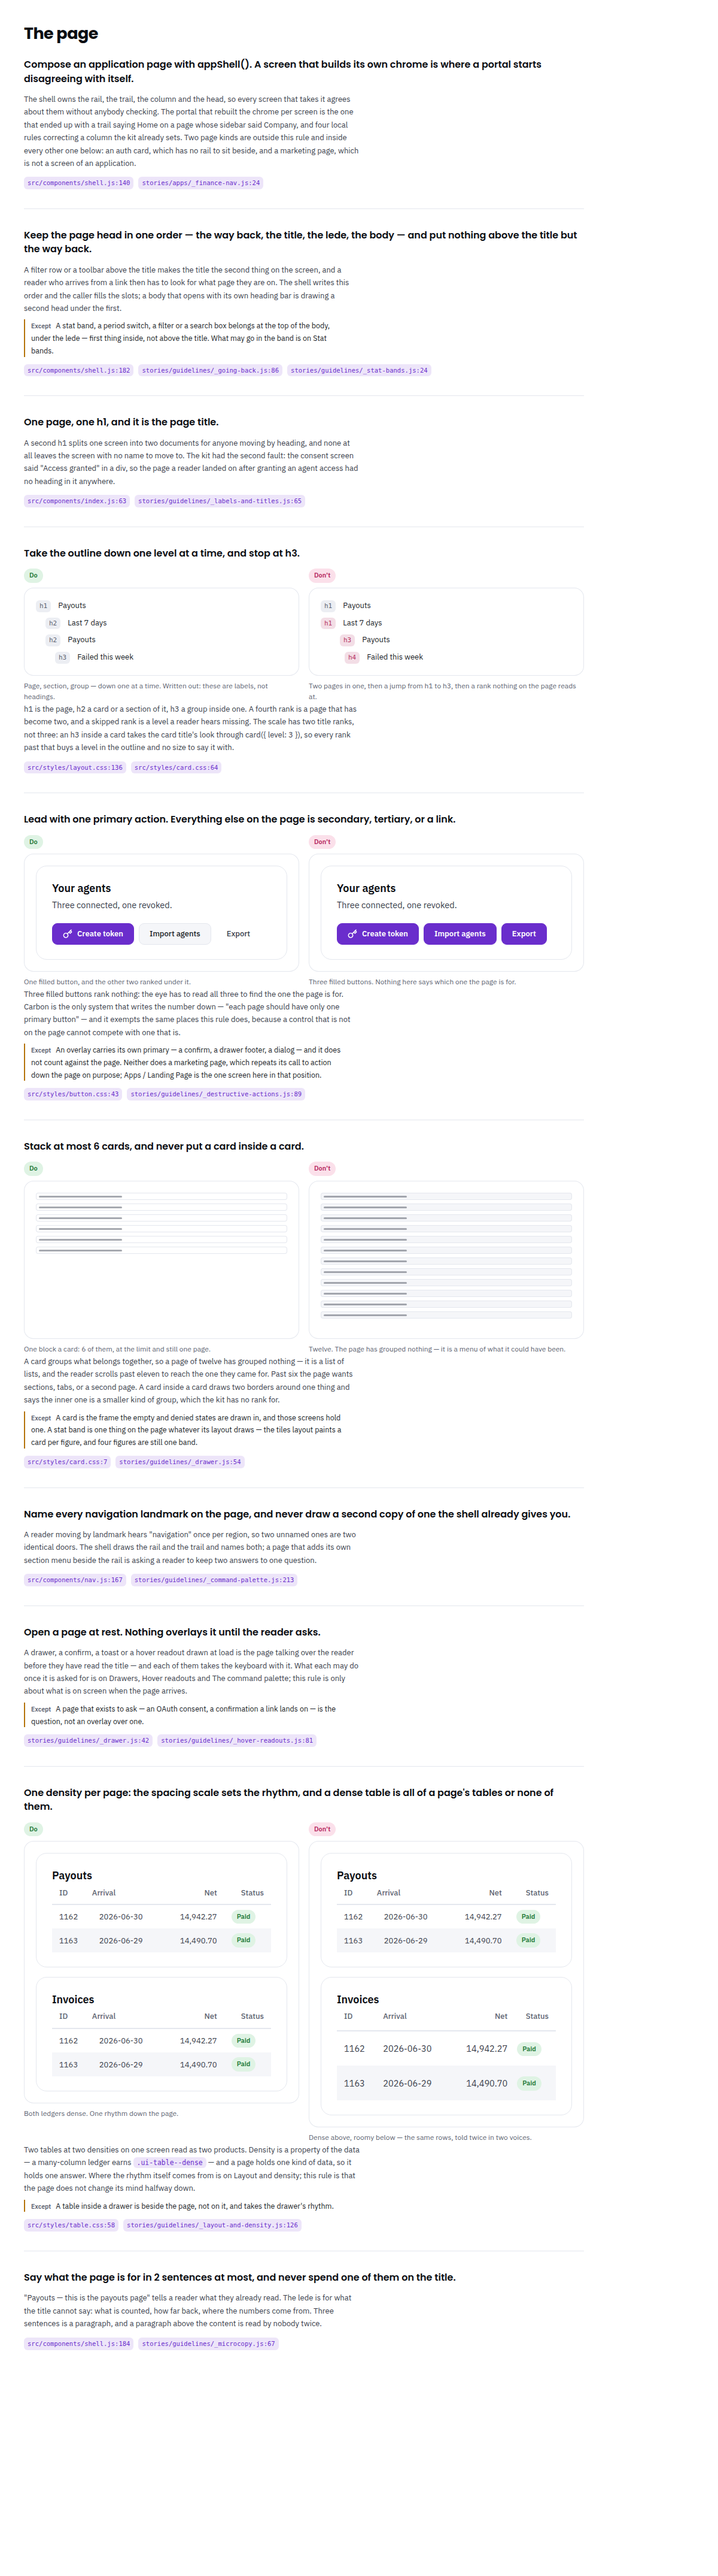
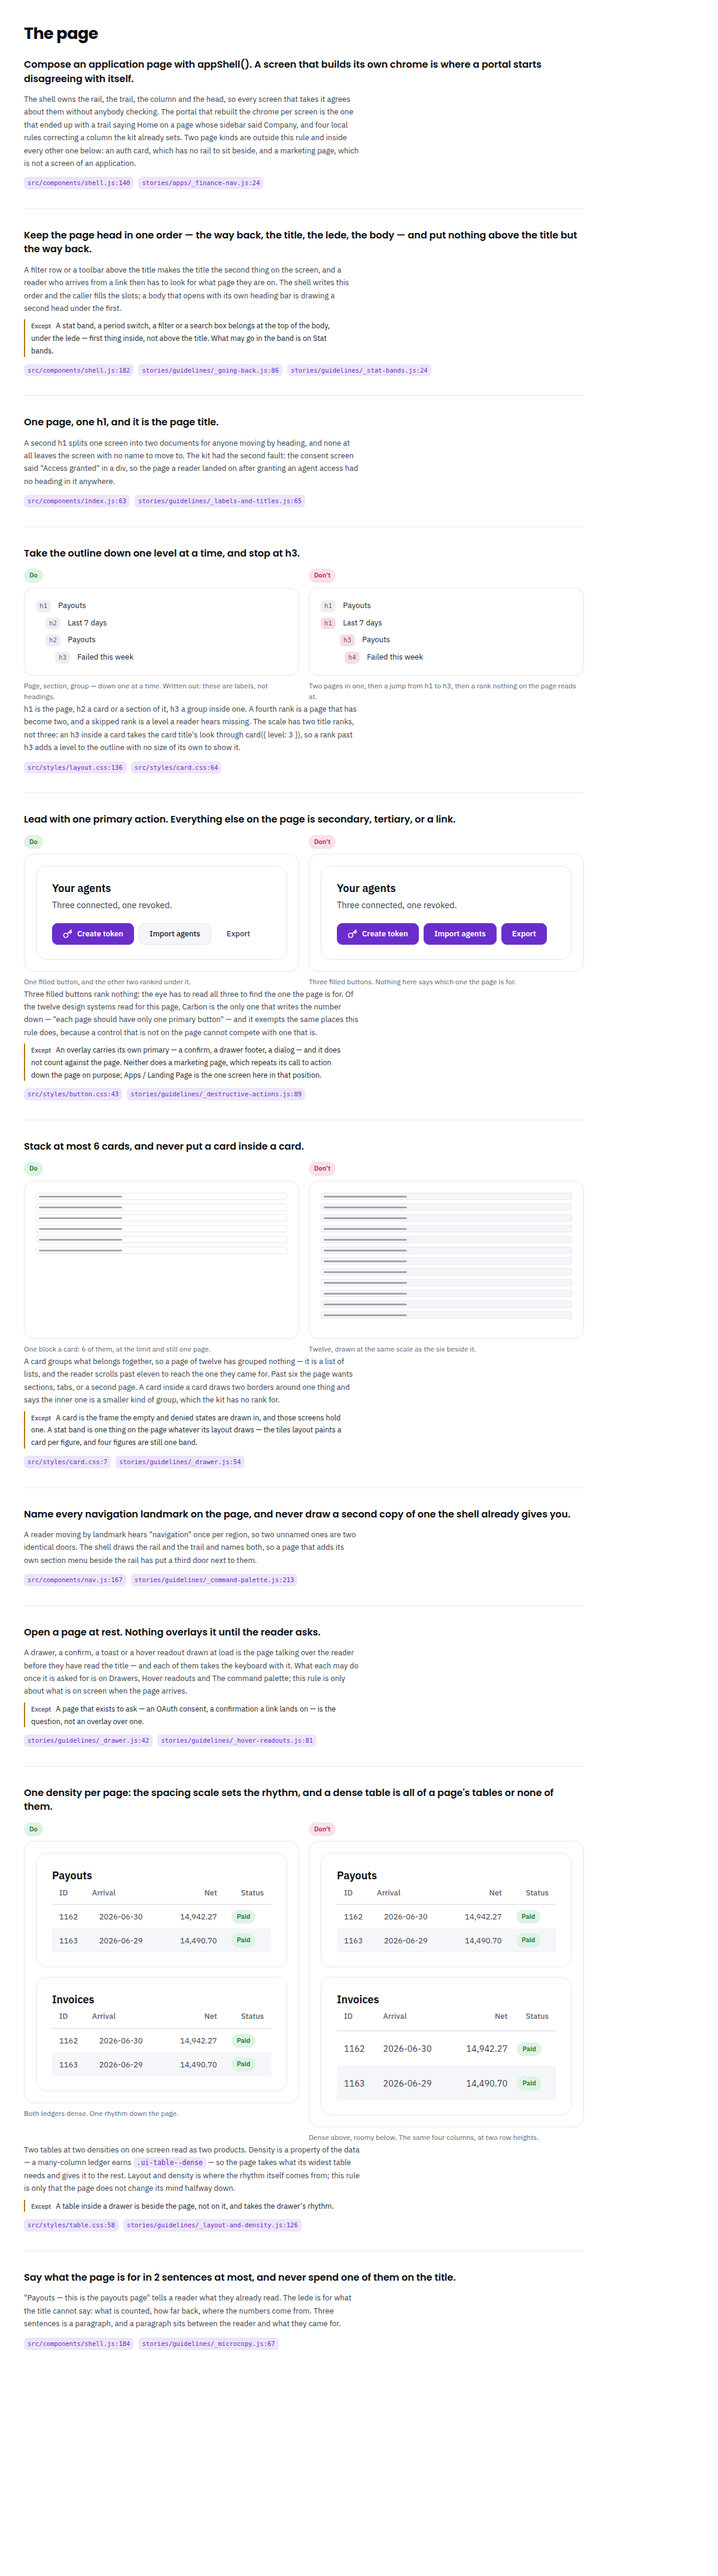
The page: findings from the prose review (#275)
The Carbon claim is scoped to the twelve systems actually read. The density
rule stops asserting that a page holds one kind of data — its own do-specimen
holds two tables. The specification opens on a fact rather than a sentiment,
and stops presenting a choice made in this PR as a derivation. Four captions
and one why traded an aphorism for what the picture shows.

Claude-Session: https://claude.ai/code/session_017CBE3Ut36cRg3sU16zw2A5

Changed region(s): [[0.0308, 0.374, 0.4625, 0.4051], [0.2158, 0.8414, 0.2467, 0.8726], [0.0617, 0.8414, 0.0925, 0.8726]]

diff --git a/stories/guidelines/_the-page.js b/stories/guidelines/_the-page.js
@@ -167,8 +167,8 @@ export const RULES = [
     why: 'h1 is the page, h2 a card or a section of it, h3 a group inside one. A fourth rank is a '
       + 'page that has become two, and a skipped rank is a level a reader hears missing. The scale '
       + 'has two title ranks, not three: an h3 inside a card takes the card title\'s look through '
-      + 'card({ level: 3 }), so every rank past that buys a level in the outline and no size to say '
-      + 'it with.',
+      + 'card({ level: 3 }), so a rank past h3 adds a level to the outline with no size of its own '
+      + 'to show it.',
     doCaption: 'Page, section, group — down one at a time. Written out: these are labels, not headings.',
     dontCaption: 'Two pages in one, then a jump from h1 to h3, then a rank nothing on the page reads at.',
     doHtml: outlineDo,
@@ -182,9 +182,10 @@ export const RULES = [
     id: 'one-primary',
     imperative: 'Lead with one primary action. Everything else on the page is secondary, tertiary, or a link.',
     why: 'Three filled buttons rank nothing: the eye has to read all three to find the one the page '
-      + 'is for. Carbon is the only system that writes the number down — "each page should have only '
-      + 'one primary button" — and it exempts the same places this rule does, because a control that '
-      + 'is not on the page cannot compete with one that is.',
+      + 'is for. Of the twelve design systems read for this page, Carbon is the only one that writes '
+      + 'the number down — "each page should have only one primary button" — and it exempts the same '
+      + 'places this rule does, because a control that is not on the page cannot compete with one '
+      + 'that is.',
     except: 'An overlay carries its own primary — a confirm, a drawer footer, a dialog — and it does '
       + 'not count against the page. Neither does a marketing page, which repeats its call to action '
       + 'down the page on purpose; Apps / Landing Page is the one screen here in that position.',
@@ -208,7 +209,7 @@ export const RULES = [
       + 'one. A stat band is one thing on the page whatever its layout draws — the tiles layout paints a '
       + 'card per figure, and four figures are still one band.',
     doCaption: `One block a card: ${LIMITS.cards} of them, at the limit and still one page.`,
-    dontCaption: 'Twelve. The page has grouped nothing — it is a menu of what it could have been.',
+    dontCaption: 'Twelve, drawn at the same scale as the six beside it.',
     doHtml: stackDo,
     dontHtml: stackDont,
     kit: [
@@ -220,8 +221,8 @@ export const RULES = [
     id: 'navs',
     imperative: 'Name every navigation landmark on the page, and never draw a second copy of one the shell already gives you.',
     why: 'A reader moving by landmark hears "navigation" once per region, so two unnamed ones are two '
-      + 'identical doors. The shell draws the rail and the trail and names both; a page that adds its '
-      + 'own section menu beside the rail is asking a reader to keep two answers to one question.',
+      + 'identical doors. The shell draws the rail and the trail and names both, so a page that adds '
+      + 'its own section menu beside the rail has put a third door next to them.',
     kit: [
       { ref: 'src/components/nav.js:167', pattern: 'ui-nav--crumbs' },
       { ref: 'stories/guidelines/_command-palette.js:213', pattern: 'hand focus back' },
@@ -245,12 +246,12 @@ export const RULES = [
     id: 'density',
     imperative: 'One density per page: the spacing scale sets the rhythm, and a dense table is all of a page\'s tables or none of them.',
     why: 'Two tables at two densities on one screen read as two products. Density is a property of '
-      + 'the data — a many-column ledger earns .ui-table--dense — and a page holds one kind of data, '
-      + 'so it holds one answer. Where the rhythm itself comes from is on Layout and density; this '
-      + 'rule is that the page does not change its mind halfway down.',
+      + 'the data — a many-column ledger earns .ui-table--dense — so the page takes what its widest '
+      + 'table needs and gives it to the rest. Layout and density is where the rhythm itself comes '
+      + 'from; this rule is only that the page does not change its mind halfway down.',
     except: 'A table inside a drawer is beside the page, not on it, and takes the drawer\'s rhythm.',
     doCaption: 'Both ledgers dense. One rhythm down the page.',
-    dontCaption: 'Dense above, roomy below — the same rows, told twice in two voices.',
+    dontCaption: 'Dense above, roomy below. The same four columns, at two row heights.',
     doHtml: densityDo,
     dontHtml: densityDont,
     kit: [
@@ -263,7 +264,7 @@ export const RULES = [
     imperative: `Say what the page is for in ${LIMITS.lede} sentences at most, and never spend one of them on the title.`,
     why: '"Payouts — this is the payouts page" tells a reader what they already read. The lede is for '
       + 'what the title cannot say: what is counted, how far back, where the numbers come from. Three '
-      + 'sentences is a paragraph, and a paragraph above the content is read by nobody twice.',
+      + 'sentences is a paragraph, and a paragraph sits between the reader and what they came for.',
     kit: [
       { ref: 'src/components/shell.js:184', pattern: 'ui-app__sub' },
       { ref: 'stories/guidelines/_microcopy.js:67', pattern: 'a filter gets a nudge' },

diff --git a/PR.md b/PR.md
@@ -32,8 +32,8 @@ faults that every other gate was green about:
 holds each of them to every rule. Fixed the two faults. Put the four numbers that are judgement
 calls in front of Artur as rendered screens.
 
-**The verdict: Changed.** The issue asks for a document. A document is half of it; the half that
-lasts is the gate.
+**The verdict: Changed.** The issue asks for a document, and a document nothing enforces is a
+wish — so this is a document and the gate that holds it.
 
 ## The survey
 
@@ -58,7 +58,7 @@ the other goes in the issue, and stays there."*
 | **Salesforce Lightning** | a `page-header` blueprint | readable only as class names (`__col-title`, `__col-actions`, `__col-meta`, `__col-details`); the prose did not render on either the current or the v1 docs site | not read | not read | — |
 
 Atlassian and Lightning are recorded as **partially read**: both sites render their guidance in
-JavaScript and returned only the lines above. Nothing is filled in from memory.
+JavaScript and returned only the lines above. Nothing else is filled in for them.
 
 ### Where they genuinely disagree
 
@@ -94,9 +94,10 @@ Checked for specifically across all twelve:
    → **one density per page: all of its tables or none of them.**
 5. **Nobody writes the lede's length down.** Polaris comes closest and it is about an annotated
    section's description, not the page's: *"Be short, no more than 1–3 sentences."*
-6. **Not one of these rules is held by a test anywhere.** Every system above publishes prose and
-   relies on review. That is the difference this PR is actually about: ten rules, ten checks, over
-   the kit's own eighteen screens, keyed to each other so neither can move alone.
+6. **Every one of them publishes this as prose.** Whether any enforces it in CI is not something
+   their documentation says, and I did not read their pipelines. What this PR adds is the check:
+   ten rules, ten checks, over the kit's own eighteen screens, keyed to each other so neither can
+   move alone.
 
 ## The page
 
@@ -152,8 +153,7 @@ Before and after, both themes, in `docs/evidence/the-page-fixes-dark.png` and
 top-level sections of the page's end matter, and `h2` is the one rank that cannot skip whatever
 heading came before it. `.ui-footer__col-title` sets the size, weight, colour and margin — it is
 marked `/* rank: label */` and stays that — so nothing moves.
-Same two screenshots, lower half: the before and the after are the same picture, which is the
-claim.
+Same two screenshots, lower half.
 
 Both are the split the kit already publishes on *Labels and titles*: the level is the outline and
 the class is the look.

diff --git a/docs/specification.md b/docs/specification.md
@@ -631,15 +631,15 @@ setBusy(el, { busy: false, message: `${rows.length} rows`, body: table(rows) });
 
 ## The page
 
-A screen is more than the components on it. These are the limits one page keeps, whatever it is
-about:
+`appShell()` draws a page's chrome and what goes inside it is the caller's. These are the limits
+that inside keeps, whatever the page is about:
 
 - **An application page is `appShell()`'s.** Two page kinds sit outside that and inside every
   rule below: an auth card, which has no rail to sit beside, and a marketing page.
 - **One `<h1>`, and it is the page title.** Every other heading on the page sits under it.
 - **The outline goes down one rank at a time and stops at `h3`** — the page, a card or section of
-  it, a group inside one. The kit draws no `h4`; the footer's column titles are `h2`, because a
-  rank that only ever follows the page's own sections cannot skip one.
+  it, a group inside one. The kit draws no `h4`: the footer's column titles are `h2`, the rank
+  chosen in #275 because it cannot skip whatever heading precedes it.
 - **The head reads in one order** — the way back, the title, the lede, the body — and nothing but
   the way back goes above the title. A filter row, a period switch or a search box is the first
   thing *inside* the body.

diff --git a/README.md b/README.md
@@ -33,9 +33,8 @@ for, the states it owes, how colour and wording work. They live in the **Guideli
 of Storybook, which opens on
 [an overview of every page](https://ui.apli.tech/storybook/?path=/story/guidelines-overview--overview)
 and what the kit does and does not yet meet.
-[The page](https://ui.apli.tech/storybook/?path=/story/guidelines-the-page--the-page) is the
-one to read first — the limits a screen keeps whatever it is about. Worth reading before you
-design a screen.
+[The page](https://ui.apli.tech/storybook/?path=/story/guidelines-the-page--the-page) is the one
+to read before you design a screen: the limits one page keeps, whatever it is about.
 
 ## Install
 
